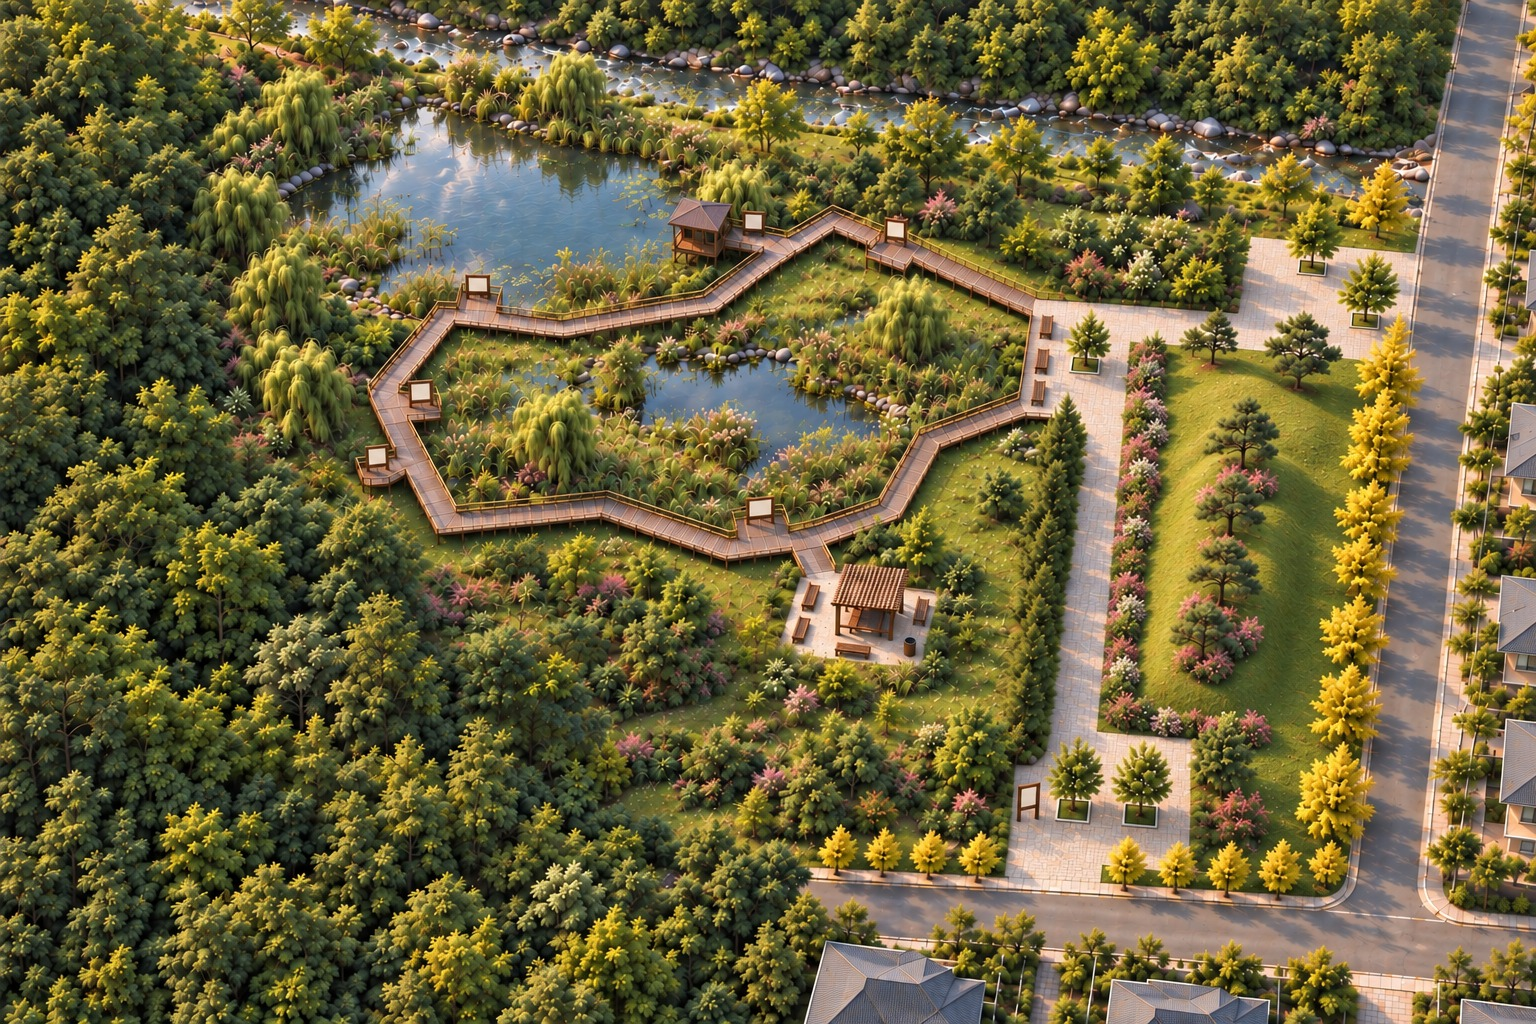
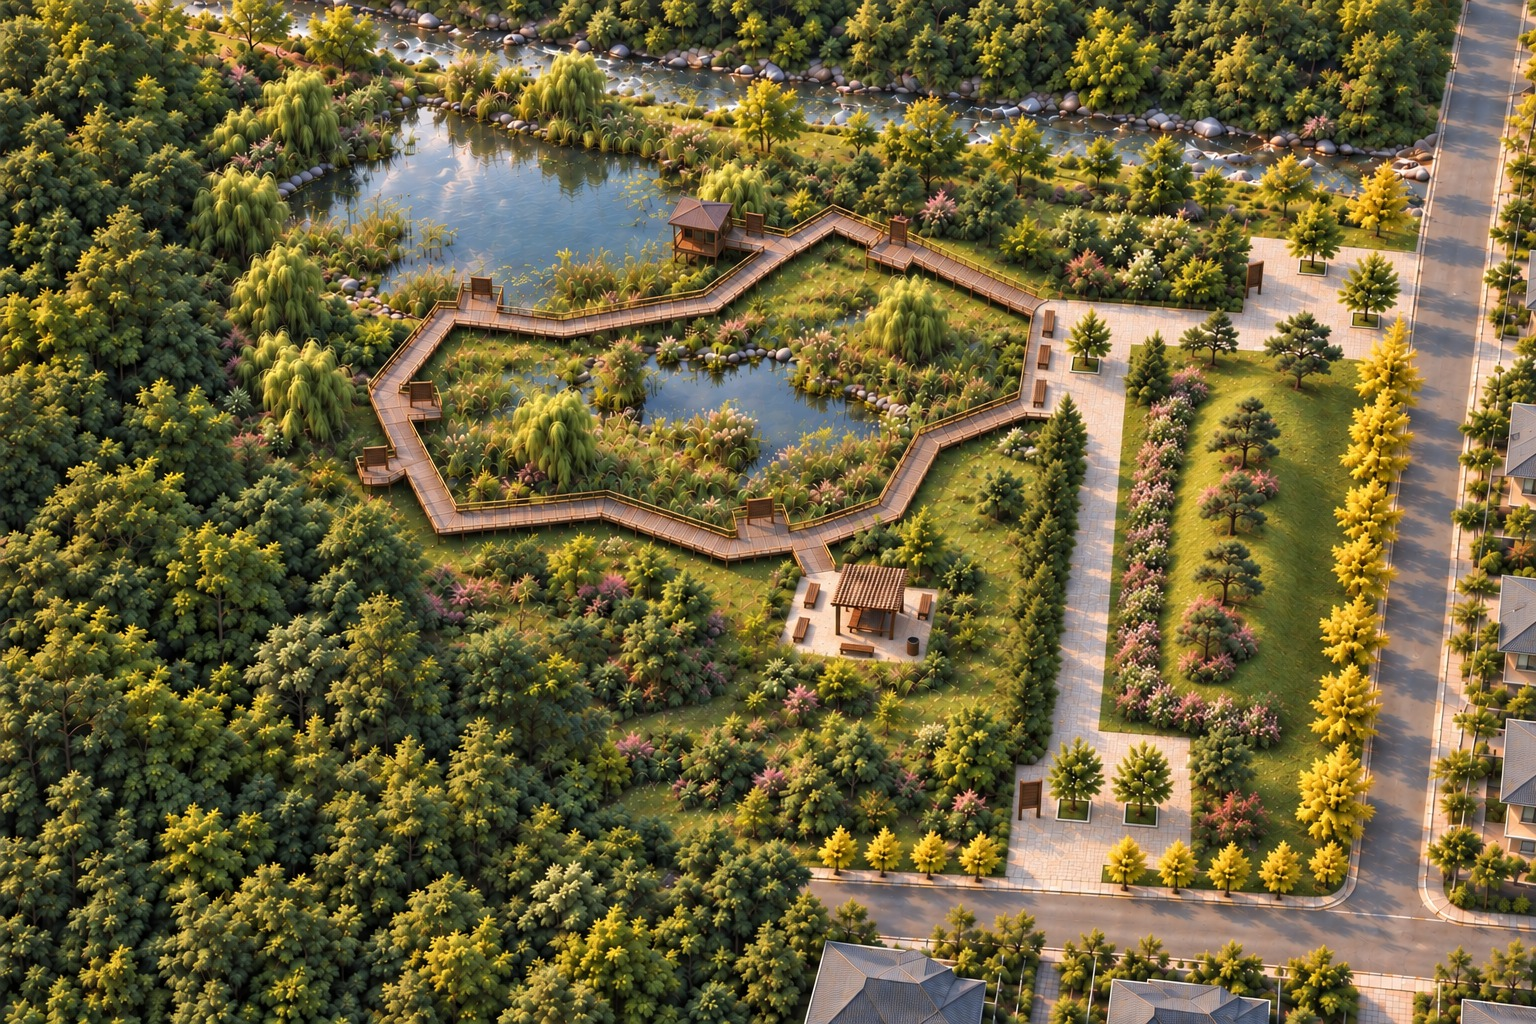
입체평면도·My 조감도 401: 안내판 판면을 짙은 목재로 (18·8회차)
안내판의 흰 판이 멀리서 흰 점으로 도드라진다는 지적. 세 그림 모두 같은
문구로 고쳤다 — "틀 안을 짙은 나뭇결 목재판으로. 주변 잔디·포장보다
어둡게. 흰색·밝은 회색 금지. 아주 흐린 선 몇 개만, 글자는 없이. 나무틀과
다리는 그대로. 지우는 것은 판의 색이지 안내판 자체가 아니다".

두 그림 모두 마지막 판 위에 얹지 않고 덧그림이 적은 조상으로 돌아가
필요한 항목을 모두 한 프롬프트에 넣어 한 번에 그렸다.

입체평면도 18회차 — 13회차에서 (가장자리 띠 + 평의자 3 + 판면) 셋을 한 번에.
  판면 80 : 주변 포장 124(17회차는 157 : 127 로 오히려 밝았다).
  선명도 1038 로 17회차(1033)와 같고, 평행투영도 그대로 —
  동측 도로 띠 왼끝 1353·1357·1361px, 좌변 -14px · 우변 +31px.

My 조감도 8회차 — 6회차에서 여섯(마운딩 띠 · 봉긋한 둔덕 · 모임광장 평의자 3
  · 휴게공간 평의자 5 · 안내판 경계 평행 · 판면)을 한 번에.
  판면 127 : 주변 포장 185. 선명도 1784(-6%, 기준 -12%).

두 그림 모두 관찰데크 5 + 조류관찰소 1 안내판이 그대로 남았다.

diff --git a/_ls_drawing_refs/401_입체평면도/content.md b/_ls_drawing_refs/401_입체평면도/content.md
@@ -1,5 +1,5 @@
 'My' 탭의 색 배치도와 '성운' 탭의 **기본설계도 · 배식설계도**를 GPT 이미지 모델
-(gpt-image-2.5-sunburst)에 주고 만든 **입체평면도**입니다(17회차).
+(gpt-image-2.5-sunburst)에 주고 만든 **입체평면도**입니다(18회차).
 
 '조감도' 탭과 달리 **원근이 없는 평행투영(축측투영)** 입니다. 멀리 있는 것도 가까이 있는 것과
 같은 크기로 그려지므로 **평면도와 그대로 견주어 볼 수 있습니다** — 주택 여덟 채가 모두 같은
@@ -67,6 +67,10 @@
     자리는 **"보도가 데크와 만나는 왼쪽 변, 수목보호대에 심긴 나무 바로 왼쪽"** 으로 짚고
     **"관찰데크 5 + 조류관찰소 1 안내판은 지우지 마라"** 를 따로 못박았습니다.
     선명도가 16회차보다 오히려 **2% 올라갔습니다**(1015 → 1033)
+18. 안내판의 **흰 판이 멀리서 흰 점으로 도드라진다**는 지적을 받아, 다시 **13회차로 돌아가**
+    '가장자리 띠 · 평의자 3 · 판면을 짙은 나뭇결 목재로' 셋을 한 프롬프트에 넣어 그렸습니다(18회차).
+    판면 밝기가 **80 : 주변 포장 124** 로 확실히 어두워졌고(17회차는 157 : 127 로 오히려 밝았습니다),
+    선명도는 1038 로 17회차와 같습니다
 
 > 회차마다 색 배치도와 배식설계도를 첫 두 참고 그림으로 다시 주고, 앞 회차 그림을 셋째로 줍니다.
 > 마스크 부분 수정이나 그림을 손으로 자르고 돌리는 일은 하지 않습니다.
@@ -89,7 +93,7 @@
 10회차 1351·1349·1361px, 16회차 1353·1356·1361px 로 같고, 모형 왼쪽 변 기울기도
 10회차 −18px, 16회차 −16px(730px 기준)로 같습니다.
 
-## 도면과 대조 (17회차)
+## 도면과 대조 (18회차)
 
 | 항목 | 도면 | 그림 |
 | --- | --- | --- |
@@ -107,19 +111,20 @@
 | 진입광장 | 2개소(북동 모서리 · 남측), 종합안내판 1 · 수목보호대 2씩, 도로로 바로 열림 | ✓ 보호대 합계 5개(모임광장 1 + 진입광장 2+2) |
 | 남북 동선 | 두 진입광장을 잇는 소형고압블록 포장 | ✓ 동측 도로와 평행 |
 | 배식 | 동선 서쪽 메타세쿼이아 열식 · 동쪽 마운딩에 소나무 7 + 철쭉 · 도로변 은행나무 열식 · 산림지구 다층림 · 저수지·관찰로 서쪽은 열린 잔디 | ✓ 마운딩은 잔디 언덕에 소나무 7주(13회차), 서쪽 변과 남쪽 변을 따라 끊기지 않는 꽃관목 띠(16회차) |
+| 안내판 판면 | — | ✓ 짙은 나뭇결 목재판 — 주변 포장보다 어둡습니다(80 : 124, 18회차) |
 | 글자 | 없음 | ✓ |
 
 남은 차이는 둘입니다. ① **저수지가 도면보다 조금 동쪽·넓습니다**(도면 부지 폭의 14~44%, 그림 약 19~50%). ② **남측 도로가 55% 지점에서 시작**합니다(도면 50%).
 
-비용은 17장 약 $0.76 입니다(16·17회차만 `xhigh` 품질이라 장당 $0.074).
+비용은 18장 약 $0.84 입니다(16~18회차만 `xhigh` 품질이라 장당 $0.074).
 
-## 프롬프트 — 마지막 회차(17회차, 참고: 색 배치도 + 배식설계도 + 13회차 그림)
+## 프롬프트 — 마지막 회차(18회차, 참고: 색 배치도 + 배식설계도 + 13회차 그림)
 
-13회차 그림을 함께 주고 고칠 둘만 적은 것입니다. 1~16회차 프롬프트는 뺐습니다.
+13회차 그림을 함께 주고 고칠 셋만 적은 것입니다. 1~17회차 프롬프트는 뺐습니다.
 
     The FIRST attached image is the colour-coded site plan of a small Korean ecological park. The SECOND is its hand-drawn planting plan. The THIRD attached image is a PHOTOREALISTIC axonometric render of the same park. Its LAYOUT, its CAMERA, its PARALLEL PROJECTION, its MATERIALS, its TEXTURES, its LIGHTING and every one of its objects are CORRECT and must be reproduced exactly. It stays photorealistic.
 
-    Two things are wrong. Fix exactly these two. Change nothing else at all.
+    Three things are wrong. Fix exactly these three. Change nothing else at all.
 
     FIX 1 — THE MISSING SHRUB EDGING ON THE MOUND.
     Find the long grassy mound: the low turf hill in the open lawn east of the straight block-paved path, the one planted with seven pines and pink azaleas down its middle. Its LEFT side, where the turf meets the block paving of the path, is at present BARE GRASS, with only two or three loose clumps of shrubs at its top end and one near its bottom end.
@@ -135,7 +140,10 @@
 
     When you are done, that strip carries THREE IDENTICAL BROWN TIMBER BENCHES and nothing else. Count them: one bench, two benches, three benches. There is NO white panel, NO timber frame, NO standing board and NO sign of any kind left anywhere on this plaza. The tree in its square metal grate stays exactly where it is, immediately to their right.
 
-    DO NOT TOUCH THE OTHER SIGNBOARDS. The small blank white boards on the five timber viewing platforms of the boardwalk, and the one at the bird-watching hut, MUST ALL STAY - six blank white boards in all, at the same places, the same sizes and the same square alignment. Do not delete them, do not move them and do not turn them into benches. The large blank boards on the two entrance plazas also stay. Only the three frames on the gathering plaza change.
+    DO NOT TOUCH THE OTHER SIGNBOARDS. The small blank white boards on the five timber viewing platforms of the boardwalk, and the one at the bird-watching hut, MUST ALL STAY - six boards in all, each now with a dark timber panel, at the same places, the same sizes and the same square alignment. Do not delete them, do not move them and do not turn them into benches. The large blank boards on the two entrance plazas also stay. Only the three frames on the gathering plaza change.
+
+    FIX 3 — THE BOARD FACES ARE DARK TIMBER, NOT WHITE.
+    Every signboard in the picture - the 5 small boards on the 5 timber viewing platforms, the 1 board at the bird-watching hut, and the large boards on both entrance plazas - currently has a BRIGHT WHITE face inside its timber frame, so it stands out as a white dot. Replace that white face with a panel of DARK, GRAIN-TEXTURED TIMBER. The panel must be DARKER than the grass and darker than the block paving around it; never white, never light grey, never pale. Put only a few very faint lines on it and NO letters and NO text of any kind. Keep the timber frame and its legs exactly as they are - you are changing only the COLOUR AND MATERIAL OF THE PANEL, you are NOT removing any signboard. All of them still stand where they stand.
 
     SHARPNESS — RENDER THIS FRESH AT FULL RESOLUTION AND FULL DETAIL.
     Do not retouch or resample the third image: draw the whole picture again from scratch. Every part of it must be at least as crisp and as finely detailed as the third image is — the individual leaves in every canopy, the blades and mowing stripes in the turf, the board joints and grain of the boardwalk, the joints of the block paving, the roof tiles of the houses, the pebbles at the water edge. Nothing may come out softer, blurrier, smoother or more washed out than in the third image.
@@ -155,6 +163,6 @@
     - All vertical edges exactly vertical in the picture and exactly parallel to one another.
     - The camera stays 45 degrees above the ground, the slab's DEPTH foreshortened to 0.71 of true, exactly as in the third image. Same framing and orientation: stream and reservoir at the TOP, narrow woodland strip and forest on the LEFT and lower left, road and houses on the RIGHT, second road and houses along the BOTTOM RIGHT. Do not rotate, flip, zoom or crop.
 
-    EVERYTHING ELSE IS EXACTLY AS IN THE THIRD IMAGE: the stream across the top with wooded hillside beyond; the reservoir with its willows, reed beds and shoreline stones; the wetland pond; ONE closed angular ring of raised timber boardwalk with EXACTLY 5 viewing platforms, each carrying one blank board; EXACTLY 1 bird-watching hut on the reservoir's lower-right shore; the rest area with EXACTLY 1 pergola, 2 benches and 1 litter bin under shade trees; the gathering plaza with its EXACTLY 1 tree in a square grate; EXACTLY 2 trees in grates and 1 blank board on the top-right entrance plaza; EXACTLY 2 trees in grates and 1 blank board on the bottom entrance plaza — FIVE tree grates in all; ONE single row of about 12 dawn redwoods on the grass immediately LEFT of the straight path; ONE single row of ginkgos inside the right-hand road continuing inside the bottom road; open mown lawn west of the ring and west of the reservoir with only three or four isolated specimen trees; the dense multi-layered woodland only in the lower left and lower middle.
+    EVERYTHING ELSE IS EXACTLY AS IN THE THIRD IMAGE: the stream across the top with wooded hillside beyond; the reservoir with its willows, reed beds and shoreline stones; the wetland pond; ONE closed angular ring of raised timber boardwalk with EXACTLY 5 viewing platforms, each carrying one board with a dark timber panel; EXACTLY 1 bird-watching hut on the reservoir's lower-right shore; the rest area with EXACTLY 1 pergola, 2 benches and 1 litter bin under shade trees; the gathering plaza with its EXACTLY 1 tree in a square grate; EXACTLY 2 trees in grates and 1 blank board on the top-right entrance plaza; EXACTLY 2 trees in grates and 1 blank board on the bottom entrance plaza — FIVE tree grates in all; ONE single row of about 12 dawn redwoods on the grass immediately LEFT of the straight path; ONE single row of ginkgos inside the right-hand road continuing inside the bottom road; open mown lawn west of the ring and west of the reservoir with only three or four isolated specimen trees; the dense multi-layered woodland only in the lower left and lower middle.
 
-    STRICT RULES: no new buildings, plazas, paths, bridges, fences, walls, cars or people; every board and sign stays blank; NO text, letters, numbers, labels, legends, arrows, north arrow, scale bar, grid lines, dimension lines or watermark anywhere.
+    STRICT RULES: no new buildings, plazas, paths, bridges, fences, walls, cars or people; every board carries a dark timber panel with no writing on it; NO text, letters, numbers, labels, legends, arrows, north arrow, scale bar, grid lines, dimension lines or watermark anywhere.
